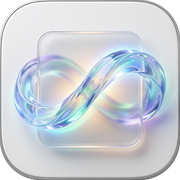
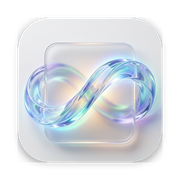
feat(website): 全量同步放大版高清图标资产并更新 v2.9.0 产品使用手册与核心特性

diff --git a/guide.html b/guide.html
@@ -66,7 +66,7 @@
                 <a href="index.html" class="docs-brand">
                     <img src="logo.png?v=3.6.0" alt="AuraSnap" class="docs-brand-img">
                     <span>AuraSnap</span>
-                    <span class="badge-ver badge-blue">v2.8.2</span>
+                    <span class="badge-ver badge-blue">v2.9.0</span>
                 </a>
                 <span class="docs-nav-divider"></span>
                 <span class="docs-nav-title">用户使用手册</span>

diff --git a/index.html b/index.html
@@ -64,7 +64,7 @@
             <a href="#" class="logo">
                 <img src="logo.png?v=3.6.0" alt="AuraSnap" class="logo-badge-img">
                 <span class="logo-text">AuraSnap</span>
-                <span class="logo-tag">v2.8.2</span>
+                <span class="logo-tag">v2.9.0</span>
             </a>
 
             <nav class="nav-links">
